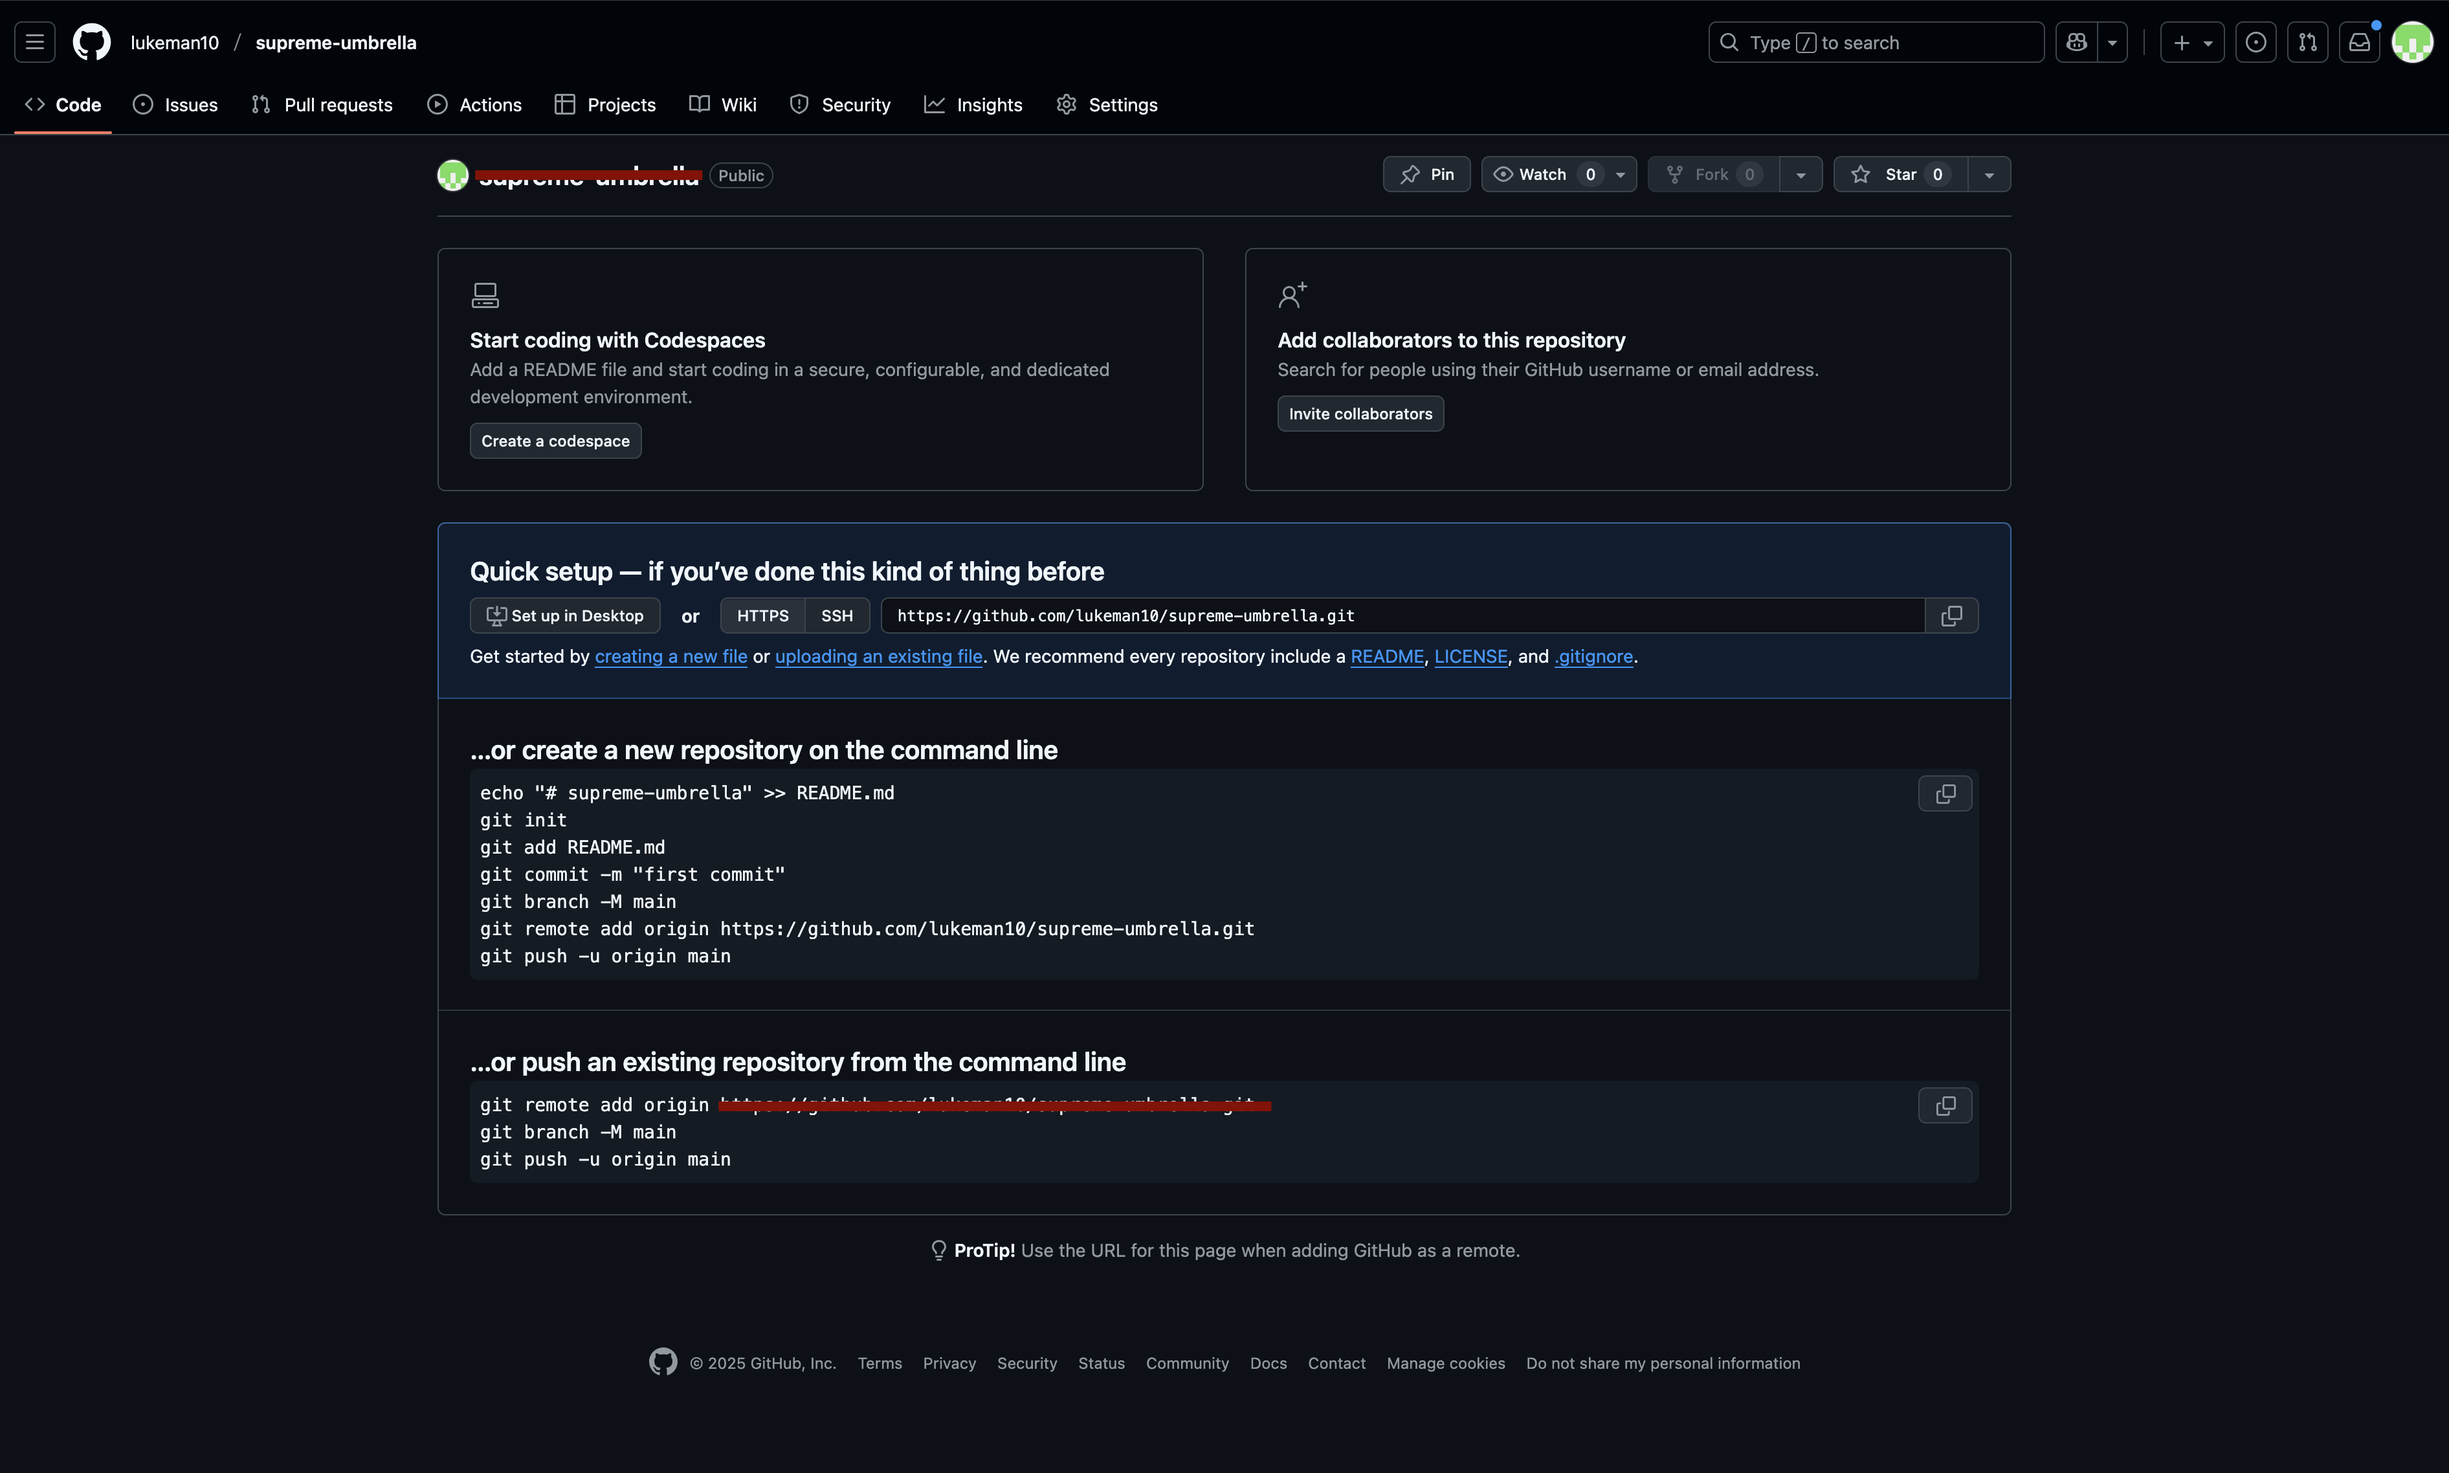
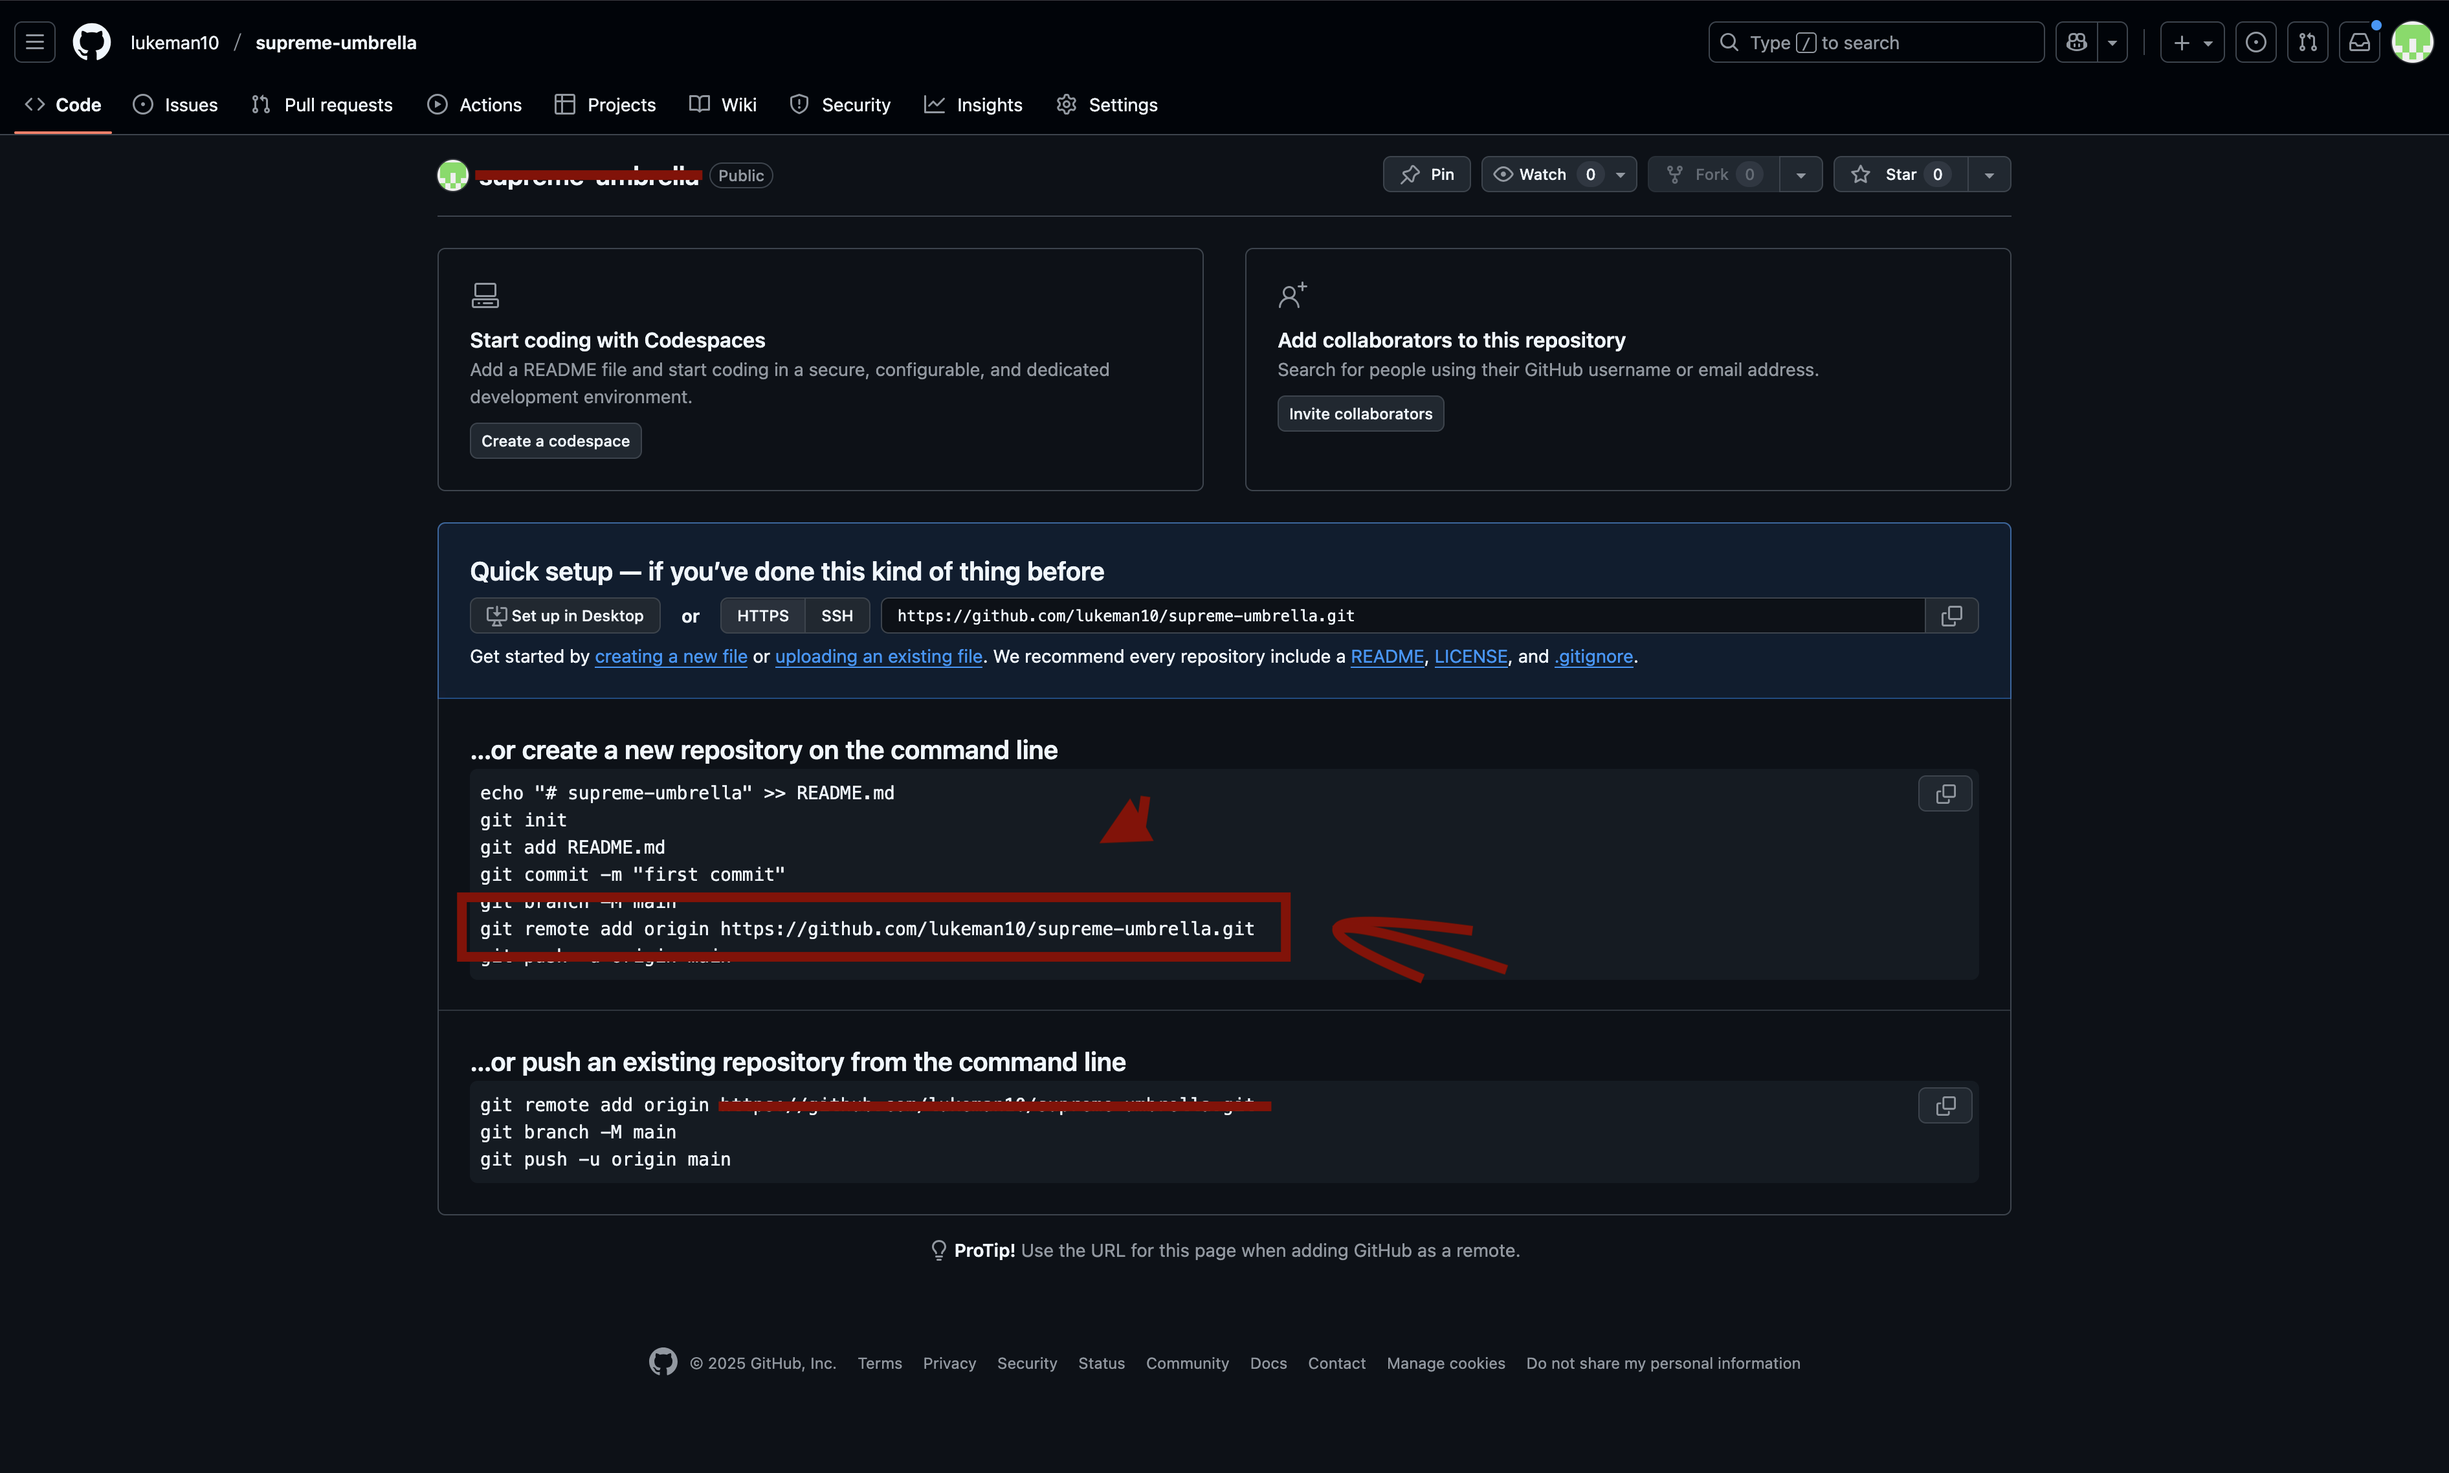
Added more

Changed region(s): [[0.1871, 0.5303, 0.6237, 0.6863]]

diff --git a/index.html b/index.html
@@ -36,8 +36,15 @@
             Click the indicated button to create a new github repository.<br>
             <img src="Screenshot 2025-10-04 at 10.33.55 AM.png" width="50%"><br>
             Give your repo a name and an optional description. Leave every other setting how it is. Press "Create repository"<br>
+            <img src="Screenshot 2025-10-04 at 10.36.28 AM.png" width="50%"><br>
+            Open the terminal again type "cd " and then drag the folder that you want to add to to your repo into the terminal.<br>
+            <img src="Screen Recording 2025-10-04 at 12.36.00 PM.gif" width="50%"><br>
+            Next, type "git init" and press enter.<br>
+            <img src="Screenshot 2025-10-04 at 12.41.24 PM.png" width="50%"><br>
+            Go back to gihub.com and click on your repo. Copy the text indicated in the below image and paste it into the terminal.<br>
             <img src="Screenshot 2025-10-04 at 10.36.28 AM.png"><br>
-            The rest will come later...
+            
+
 
 
         </div>
